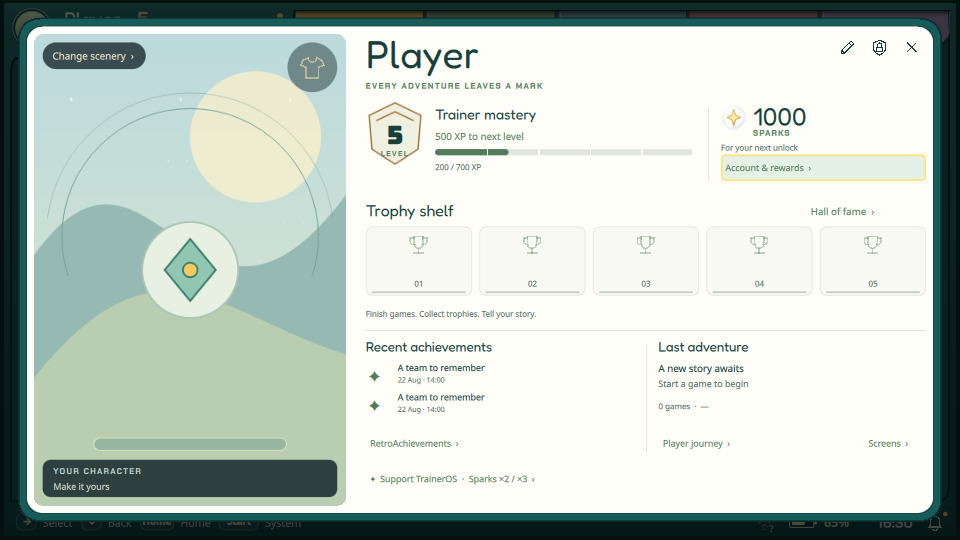
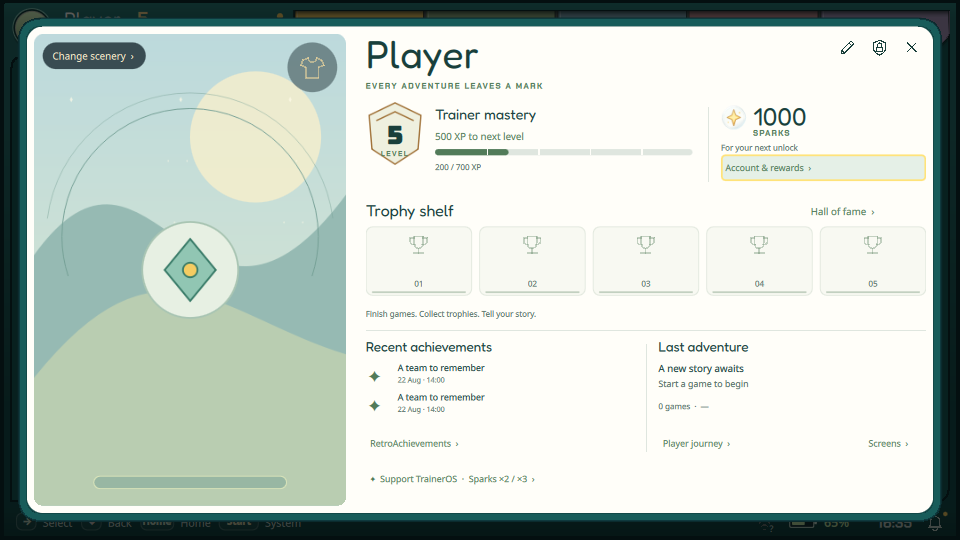
Remove obsolete caption below profile character

Changed region(s): [[0.0312, 0.8, 0.375, 0.9185]]

diff --git a/src/qml/PlayerProfilePanel.qml b/src/qml/PlayerProfilePanel.qml
@@ -52,7 +52,7 @@ Panel {
             id: showcase; y: 0; width: parent.width; height: parent.height; visible: root.browsing
             ProfileScene {
                 id:portrait;width:parent.width*.35;height:parent.height
-                profile:root.profile;appearance:root.shell.backendAccount.profileAppearance;showAvatar:root.browsing;footerInset:43
+                profile:root.profile;appearance:root.shell.backendAccount.profileAppearance;showAvatar:root.browsing
                 Rectangle { x:10;y:10;width:116;height:30;radius:15;color:"#c5122229" }
                 ProfileAction { x:16;y:10;width:108;actionIndex:9;label:"Change scenery  ›";textSize:11;ink:"#fff0cd" }
                 ProfileAction {
@@ -61,10 +61,6 @@ Panel {
                     width: 56; height: 56; actionIndex: 1; label: "Wardrobe"; glyph: "shirt"
                     ink: "#ffe2a1"; background: "#e6122229"
                     available: root.profile.exists && root.profile.avatarAvailable
-                }
-                Rectangle { x:10;anchors.bottom:parent.bottom;anchors.bottomMargin:10;width:parent.width-20;height:42;radius:9;color:"#d4122229"
-                    Text { x:12;y:7;text:"YOUR CHARACTER";font.family:Theme.brandFamily;font.pixelSize:9;font.letterSpacing:1.5;color:"#bdd5ce" }
-                    Text { x:12;y:23;text:"Make it yours";font.pixelSize:10;color:"#e3e9da" }
                 }
             }
             Item {

diff --git a/docs/evidence/2026-11-10-profile-wardrobe/README.md b/docs/evidence/2026-11-10-profile-wardrobe/README.md
@@ -3,13 +3,16 @@
 Крупная круглая кнопка 56×56 расположена с отступом 10 в правом верхнем
 углу самой сцены персонажа. Векторная рубашка, подсказка Wardrobe,
 контроллерный фокус и прежний action 1 сохранены. Нижняя текстовая ссылка убрана.
-Смена сцены остаётся слева сверху.
+Смена сцены остаётся слева сверху. По следующей коррекции владельца
+удалена вся нижняя плашка «YOUR CHARACTER / Make it yours» и её отступ
+`footerInset:43`: эта высота возвращена превью персонажа.
 
 ## Проверено
 
 - Серверная сборка `traineros`, Qt 6.11.2: успешна.
 - Реальный QML-рендер через Xvfb/OpenGL, 960×540: круг и рубашка видны,
-  пересечений со сменой сцены и остальным профилем нет.
+  пересечений со сменой сцены и остальным профилем нет; нижняя плашка
+  отсутствует. После её удаления сборка и захват кадра повторены.
 - Проверен существующий маршрут в ShellController: действие 1 открывает
   outfits, Back возвращает в summary с фокусом 1; логика не менялась.
 - В ограниченном прогоне нет ошибок QML. Использованы синтетические данные,
@@ -21,5 +24,5 @@
 На стенде нет пакета 3D-аватара: показана эмблема, Wardrobe приглушён по
 прежнему условию доступности. Установка и физический джой на Flip/Odin
 не проверялись в этом изменении, согласно паузе владельца на установки.
-Сырые кадры и лог: `build/wardrobe-preview-20261110/`; серверный каталог
-`/home/abysscloud/traineros-crates-apps-20261109/wardrobe-preview-20261110/`.
+Сырые кадры и лог: `build/profile-clean-20261110/`; серверный каталог
+`/home/abysscloud/traineros-crates-apps-20261109/profile-clean-20261110/`.

diff --git a/docs/PLAYER_PROFILE.md b/docs/PLAYER_PROFILE.md
@@ -4,7 +4,9 @@
 
 Wardrobe перенесён в правый верхний угол самой сцены персонажа: круглая
 кнопка 56×56 с векторной рубашкой и подсказкой. Прежняя ссылка в нижней
-плашке убрана. Сохранены действие 1, контроллерный фокус, touch и возврат
+плашке убрана. По уточнению владельца убрана и сама плашка
+«YOUR CHARACTER / Make it yours» вместе с отступом под неё. Сохранены
+действие 1, контроллерный фокус, touch и возврат
 из гардероба. [Проверка сборки и рендера](evidence/2026-11-10-profile-wardrobe/README.md).
 
 ## Игровая композиция профиля — 2 ноября 2026

diff --git a/CHANGELOG.md b/CHANGELOG.md
@@ -3,7 +3,8 @@
 ## 10 ноября 2026 — Wardrobe в углу сцены персонажа
 
 В исходниках Wardrobe стал крупной круглой кнопкой с рубашкой в правом
-верхнем углу окна персонажа. Прежние вход/возврат и управление сохранены.
+верхнем углу окна персонажа. Нижняя плашка «YOUR CHARACTER / Make it yours»
+и отступ под неё убраны. Прежние вход/возврат и управление сохранены.
 [Проверки и ограничения](docs/evidence/2026-11-10-profile-wardrobe/README.md).
 
 ## 10 ноября 2026 — Chats: иконки слева и отдельные друзья

diff --git a/PROJECT_STATUS.md b/PROJECT_STATUS.md
@@ -3,7 +3,8 @@
 ## 10 ноября 2026 — Wardrobe в углу сцены персонажа
 
 В исходниках Wardrobe стал крупной круглой кнопкой с рубашкой в правом
-верхнем углу окна персонажа. Прежние вход/возврат и управление сохранены.
+верхнем углу окна персонажа. Нижняя плашка «YOUR CHARACTER / Make it yours»
+и отступ под неё убраны. Прежние вход/возврат и управление сохранены.
 [Проверки и ограничения](docs/evidence/2026-11-10-profile-wardrobe/README.md).
 
 ## 10 ноября 2026 — Chats: левая панель разделов
